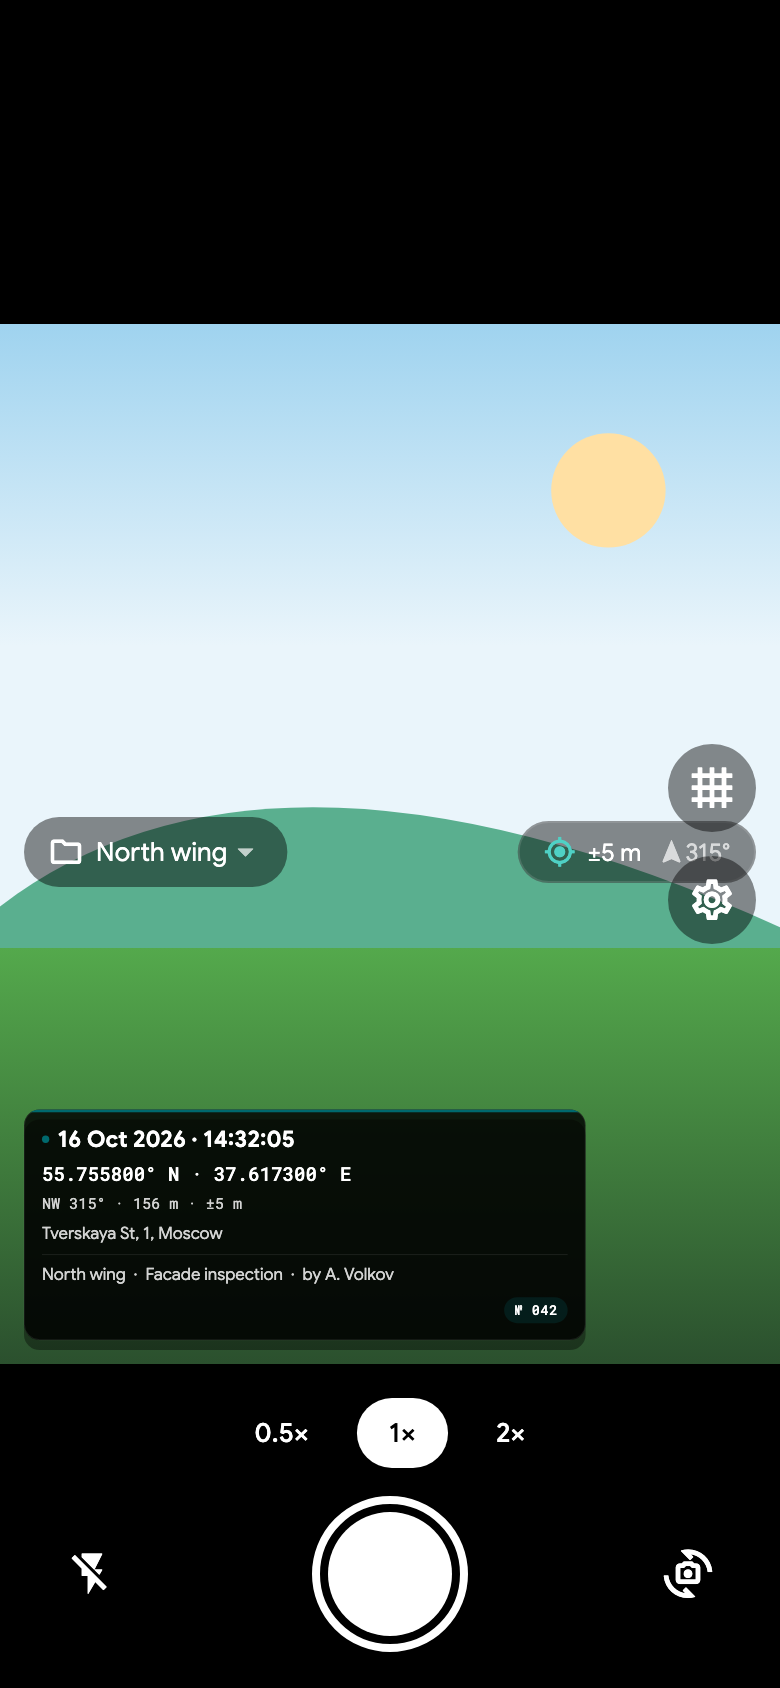
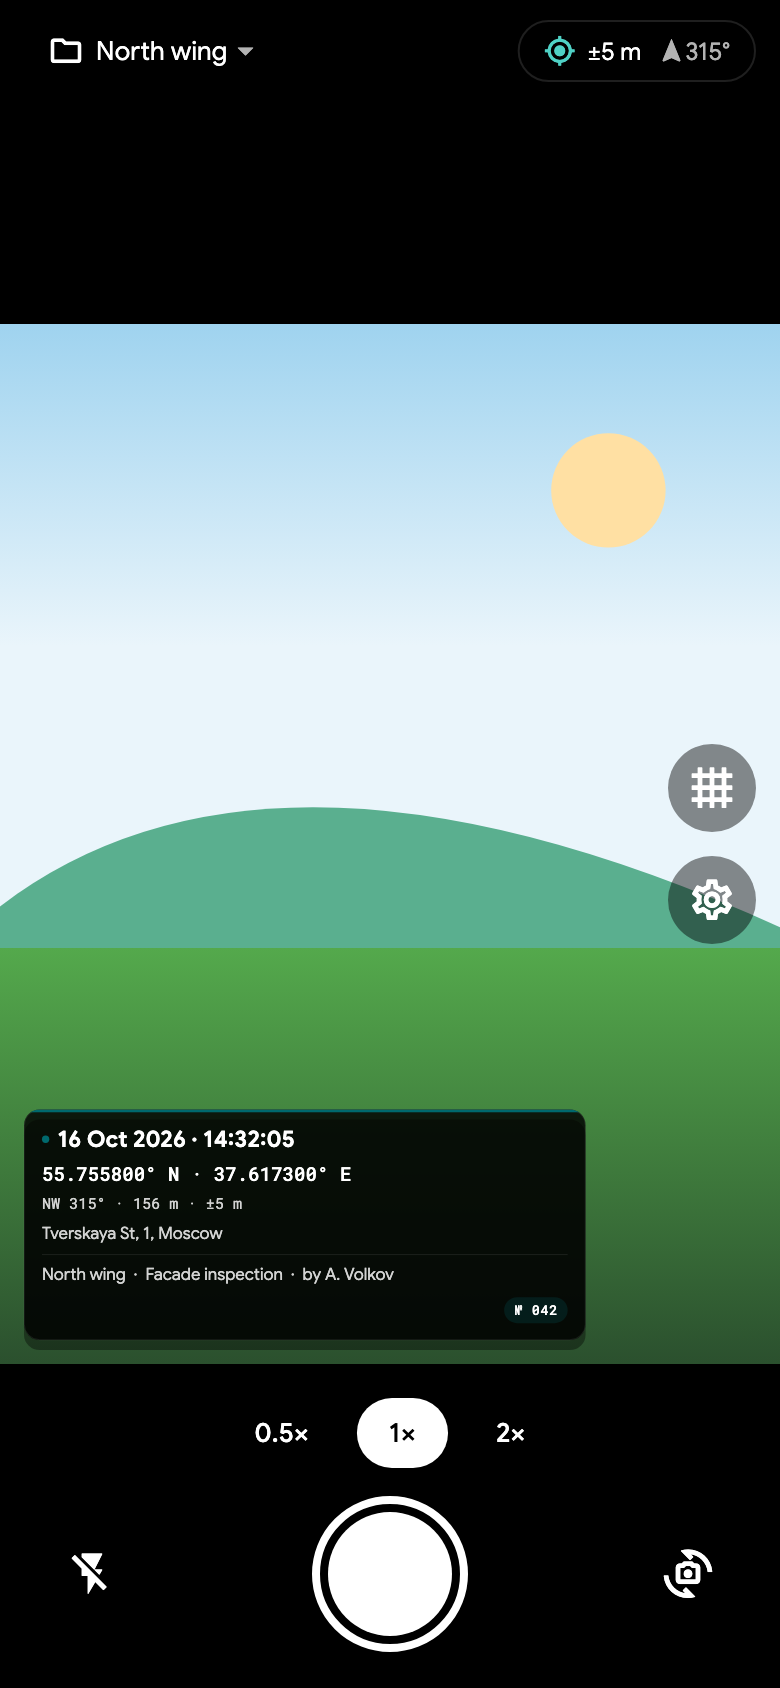
Anchor camera overlays correctly
The camera Stack uses StackFit.expand, so non-positioned children were forced
to full-screen tight constraints. The top bar was a plain Row, which centred
its icons vertically. Anchor the top and bottom bars with Positioned so the
project chip, GPS pill and controls sit where they belong.

diff --git a/tool/screenshots_test.dart b/tool/screenshots_test.dart
@@ -250,44 +250,47 @@ class _CameraMock extends StatelessWidget {
   }
 
   Widget _topBar() {
-    return SafeArea(
-      child: Padding(
-        padding: const EdgeInsets.fromLTRB(12, 8, 12, 0),
-        child: Row(
-          children: <Widget>[
-            Container(
-              padding: const EdgeInsets.symmetric(horizontal: 12, vertical: 8),
-              decoration: BoxDecoration(
-                color: Colors.black.withValues(alpha: 0.45),
-                borderRadius: BorderRadius.circular(999),
+    return Align(
+      alignment: Alignment.topCenter,
+      child: SafeArea(
+        child: Padding(
+          padding: const EdgeInsets.fromLTRB(12, 8, 12, 0),
+          child: Row(
+            children: <Widget>[
+              Container(
+                padding: const EdgeInsets.symmetric(horizontal: 12, vertical: 8),
+                decoration: BoxDecoration(
+                  color: Colors.black.withValues(alpha: 0.45),
+                  borderRadius: BorderRadius.circular(999),
+                ),
+                child: Row(
+                  mainAxisSize: MainAxisSize.min,
+                  children: <Widget>[
+                    const Icon(Icons.folder_outlined, size: 18, color: Colors.white),
+                    const SizedBox(width: 6),
+                    Text(project,
+                        style: const TextStyle(color: Colors.white, fontSize: 13)),
+                    const Icon(Icons.arrow_drop_down,
+                        color: Colors.white70, size: 18),
+                  ],
+                ),
               ),
-              child: Row(
-                mainAxisSize: MainAxisSize.min,
-                children: <Widget>[
-                  const Icon(Icons.folder_outlined, size: 18, color: Colors.white),
-                  const SizedBox(width: 6),
-                  Text(project,
-                      style: const TextStyle(color: Colors.white, fontSize: 13)),
-                  const Icon(Icons.arrow_drop_down,
-                      color: Colors.white70, size: 18),
-                ],
+              const Spacer(),
+              _pill(
+                Row(
+                  mainAxisSize: MainAxisSize.min,
+                  children: const <Widget>[
+                    Icon(Icons.gps_fixed, size: 16, color: Color(0xFF4FD1C5)),
+                    SizedBox(width: 6),
+                    Text('±5 m', style: TextStyle(color: Colors.white, fontSize: 12)),
+                    SizedBox(width: 8),
+                    Icon(Icons.navigation, size: 14, color: Colors.white70),
+                    Text('315°', style: TextStyle(color: Colors.white70, fontSize: 12)),
+                  ],
+                ),
               ),
-            ),
-            const Spacer(),
-            _pill(
-              Row(
-                mainAxisSize: MainAxisSize.min,
-                children: const <Widget>[
-                  Icon(Icons.gps_fixed, size: 16, color: Color(0xFF4FD1C5)),
-                  SizedBox(width: 6),
-                  Text('±5 m', style: TextStyle(color: Colors.white, fontSize: 12)),
-                  SizedBox(width: 8),
-                  Icon(Icons.navigation, size: 14, color: Colors.white70),
-                  Text('315°', style: TextStyle(color: Colors.white70, fontSize: 12)),
-                ],
-              ),
-            ),
-          ],
+            ],
+          ),
         ),
       ),
     );

diff --git a/lib/screens/camera_screen.dart b/lib/screens/camera_screen.dart
@@ -603,15 +603,20 @@ class _CameraScreenState extends State<CameraScreen>
 
   Widget _buildTopBar(
       AppSettings settings, LocationService location, Color accent) {
-    return SafeArea(
-      child: Padding(
-        padding: const EdgeInsets.fromLTRB(12, 8, 12, 0),
-        child: Row(
-          children: <Widget>[
-            Flexible(child: _ProjectChip(onTap: _openProjectPicker)),
-            const Spacer(),
-            _LocationPill(location: location, accent: accent),
-          ],
+    return Positioned(
+      top: 0,
+      left: 0,
+      right: 0,
+      child: SafeArea(
+        child: Padding(
+          padding: const EdgeInsets.fromLTRB(12, 8, 12, 0),
+          child: Row(
+            children: <Widget>[
+              Flexible(child: _ProjectChip(onTap: _openProjectPicker)),
+              const Spacer(),
+              _LocationPill(location: location, accent: accent),
+            ],
+          ),
         ),
       ),
     );
@@ -737,9 +742,11 @@ class _CameraScreenState extends State<CameraScreen>
 
   Widget _buildBottomControls(AppSettings settings, Color accent) {
     final List<double> presets = _zoomPresets;
-    return SafeArea(
-      child: Align(
-        alignment: Alignment.bottomCenter,
+    return Positioned(
+      bottom: 0,
+      left: 0,
+      right: 0,
+      child: SafeArea(
         child: Padding(
           padding: const EdgeInsets.fromLTRB(20, 0, 20, 16),
           child: Column(
